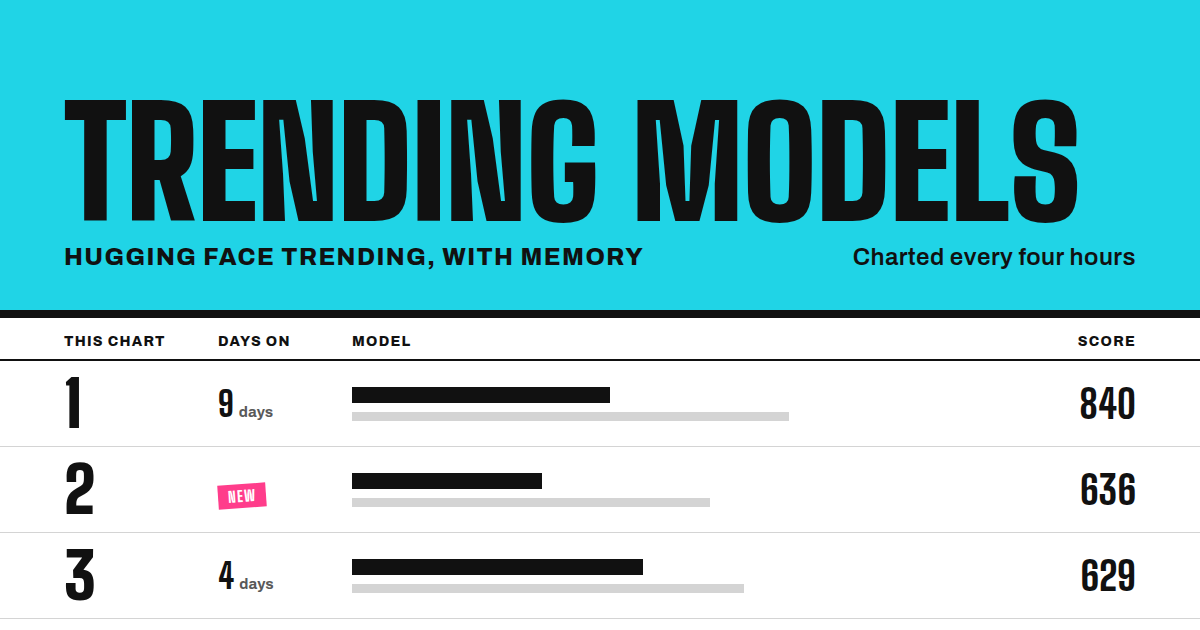
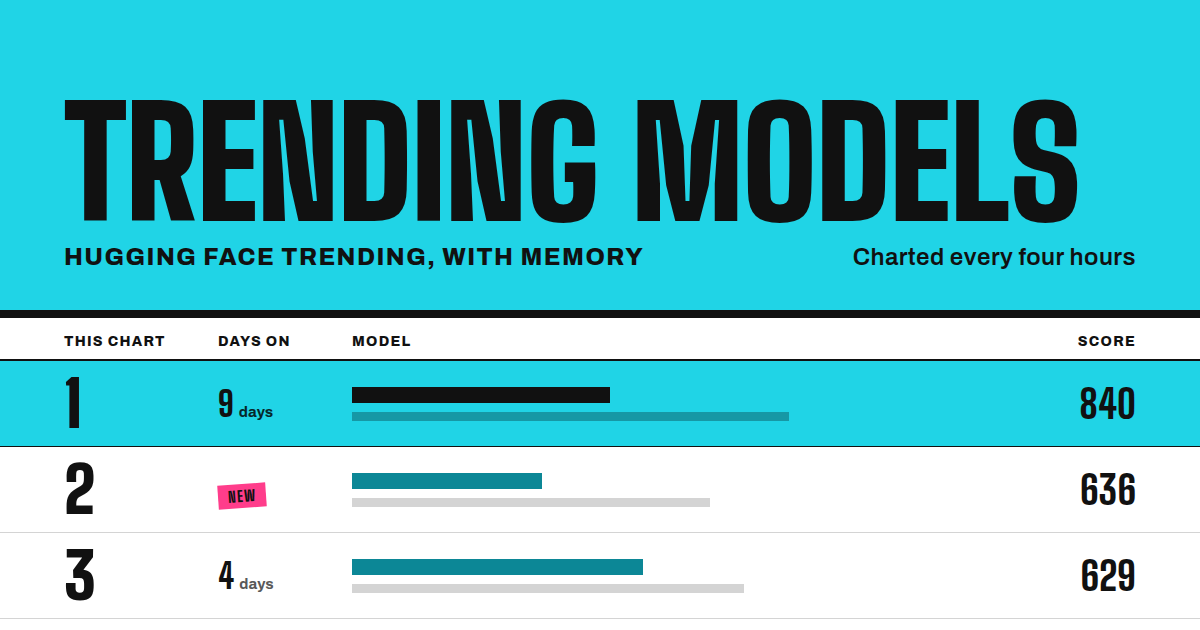
Fix review findings: bar contrast, the No. 1 band and the docs
- Score bars print a deeper cyan (#0c8796) on the light sheet, so they
  keep 3:1 on their track. Chart cyan was 1.4:1. The dark sheet keeps
  its cyan.
- Band Grey goes to #06272a, so the band holds the page's 7:1 rule.
- On the No. 1 band, the name's underline is stronger, and a NEW tag
  gets a black edge, because pink on cyan barely separates.
- The band keeps its black rule as the last row of a column, and the
  stuck heads on phones cover the band's reach into the gutter.
- Tests check the bar contrast on both sheets, the band's --sheet remap
  and black on the band at 7:1.
- The link preview image prints the new colours, and its alt text says
  cyan, pink and black.
- DESIGN.md, the surface brief and a stale comment now match the code.

Changed region(s): [[0.0, 0.573, 1.0, 0.7841], [0.2775, 0.8746, 0.555, 0.9349], [0.185, 0.754, 0.2158, 0.8143]]

diff --git a/src/render.ts b/src/render.ts
@@ -15,7 +15,7 @@ const TITLE = "Trending Models: Hugging Face trending, with memory";
 const DESCRIPTION =
 	"The models trending on Hugging Face right now, charted every four hours with how many days each has trended.";
 // public/og.png, made from scripts/og-image.html
-const OG_IMAGE_ALT = "Trending Models, printed as a cyan and black singles chart with positions, days on and trending scores.";
+const OG_IMAGE_ALT = "Trending Models, printed as a cyan, pink and black singles chart with positions, days on and trending scores.";
 
 // "Days on" grows with a run, so staying power reads at a glance: a run this long prints boxed in ink,
 // and a long run prints larger in its box
@@ -23,7 +23,7 @@ const MID_RUN = 4;
 const LONG_RUN = 7;
 
 // Hugging Face lists models by trending score, so its own order is already the score order: No. 1 has
-// the top score, and the page needs no second order or top-score mark
+// the top score, and the page needs no second order. No. 1's cyan band marks the top score
 export function renderPage(snapshot: Snapshot | null, now = new Date()): string {
 	const models = snapshot?.models ?? [];
 	const newCount = models.filter((m) => m.isNew).length;
@@ -245,6 +245,8 @@ ${fontFace("Archivo", "archivo-v25-latin.woff2", "400 800", LATIN)}
 ${fontFace("Archivo", "archivo-v25-latin-ext.woff2", "400 800", LATIN_EXT)}
 :root {
 	--cyan: #20d4e6;
+	/* Score bars: chart cyan is too pale for a thin mark on white, so the light sheet prints them a deeper cyan */
+	--bar: #0c8796;
 	/* The second spot colour, for NEW only */
 	--pink: #ff3d8b;
 	--black: #111;
@@ -265,6 +267,7 @@ ${fontFace("Archivo", "archivo-v25-latin-ext.woff2", "400 800", LATIN_EXT)}
 		--sheet: #161513;
 		/* Full-strength cyan glares as a big block on a dark sheet, so it prints a step deeper */
 		--cyan: #2cc0cf;
+		--bar: var(--cyan);
 		--pink: #f2508f;
 		--ink: #e8e4da;
 		--muted: #d2cec4;
@@ -365,7 +368,7 @@ h1 {
 .key-days .on-n { font-size: 17px; }
 .key-days .on-n.mid { font-size: 16px; }
 .key-bar { display: flex; width: 56px; height: 7px; background: color-mix(in srgb, var(--ink) 12%, transparent); }
-.key-bar span { width: 50%; background: var(--cyan); }
+.key-bar span { width: 50%; background: var(--bar); }
 
 main { padding-top: 0; }
 .chart { display: grid; grid-template-columns: repeat(2, minmax(0, 1fr)); gap: 0 48px; }
@@ -461,14 +464,14 @@ main { padding-top: 0; }
 /* A cyan bar under each score, scaled to the top score, so scores compare at a glance
    and the masthead's colour runs down the chart */
 .bar { display: flex; height: 7px; margin-top: 6px; background: color-mix(in srgb, var(--ink) 12%, transparent); }
-.bar span { background: var(--cyan); }
+.bar span { background: var(--bar); }
 
 /* No. 1 prints on a cyan band, the masthead's colour, in black type. The tokens remap inside it,
    so every element keeps its role: grey text is a deep cyan, boxed runs print cyan on black */
 .row.one, .row.one:hover {
 	--ink: var(--black);
 	--pos: var(--black);
-	--muted: #0d3b40;
+	--muted: #06272a;
 	--sheet: var(--cyan);
 	background: var(--cyan);
 	color: var(--ink);
@@ -476,6 +479,13 @@ main { padding-top: 0; }
 }
 .one .bar span { background: var(--black); }
 .row.one ::selection { background: var(--black); color: var(--cyan); }
+/* All type on the band is black, so the name's underline is stronger to still say "link" */
+.row.one .model { text-decoration-color: color-mix(in srgb, currentColor 60%, transparent); }
+.row.one:hover .model, .row.one .name:hover .model { text-decoration-color: currentColor; }
+/* Pink on cyan barely separates, so a NEW tag on the band gets a black edge */
+.row.one .stamp { box-shadow: inset 0 0 0 1.5px var(--black); }
+/* The band closes with its black rule even when it is the last row in a column */
+.col:last-child .row.one:last-child, .rows .row.one:last-child { border-bottom: 1px solid var(--black); }
 .one .pos { font-size: 44px; color: var(--ink); }
 .one .on { padding-top: 8px; }
 
@@ -625,6 +635,8 @@ footer {
 	.one .on { margin-top: 43px; padding-top: 0; }
 	/* Phone rows have no side padding, so the band reaches into the gutter to keep its type off the edge */
 	.row.one { margin: 0 -10px; padding: 14px 10px; }
+	/* The stuck heads cover that reach too, so the band never shows beside them as it scrolls under */
+	.heads::before { content: ""; position: absolute; inset: 0 -10px; z-index: -1; background: var(--sheet); }
 	/* The score sits level with the model name, not the author line above it */
 	.gain { align-self: end; }
 	/* Taps land on the name even a little off the text */

diff --git a/test/render.test.ts b/test/render.test.ts
@@ -262,8 +262,15 @@ describe("freshness and fonts", () => {
 		// The masthead prints black on cyan in both schemes
 		expect(contrast(light("cyan"), light("black"))).toBeGreaterThanOrEqual(7);
 		expect(contrast(dark("cyan"), light("black"))).toBeGreaterThanOrEqual(7);
-		// Score bars print cyan on the dark sheet, so they must stand out from it
-		expect(contrast(dark("cyan"), dark("sheet"))).toBeGreaterThanOrEqual(7);
+		// Score bars sit on a 12% ink track: they keep 3:1 against it on both sheets.
+		// The dark sheet prints them in its cyan; the light sheet needs a deeper one
+		const hex6 = (c: string) => (c.length === 4 ? `#${[...c.slice(1)].map((d) => d + d).join("")}` : c);
+		const mix = (a: string, b: string, p: number) =>
+			`#${[1, 3, 5].map((i) => Math.round(parseInt(hex6(a).slice(i, i + 2), 16) * p + parseInt(hex6(b).slice(i, i + 2), 16) * (1 - p)).toString(16).padStart(2, "0")).join("")}`;
+		expect(html).toContain("--bar: var(--cyan);");
+		expect(contrast(light("bar"), mix(light("ink"), light("sheet"), 0.12))).toBeGreaterThanOrEqual(3);
+		expect(contrast(dark("cyan"), mix(dark("ink"), dark("sheet"), 0.12))).toBeGreaterThanOrEqual(3);
+		expect(html).toContain(".bar span { background: var(--bar); }");
 		// Light --pos is var(--ink), so only it falls back to ink; any other token must be a hex colour
 		expect(html).toContain("--pos: var(--ink);");
 		for (const [t, fgs] of [[light, ["ink", "muted"]], [dark, ["ink", "muted", "pos"]]] as const) {
@@ -279,10 +286,15 @@ describe("freshness and fonts", () => {
 		// The No. 1 band is cyan, with black type and a deep cyan for its grey text
 		const band = html.match(/\.row\.one, \.row\.one:hover \{([^}]+)\}/)?.[1] ?? "";
 		expect(band).toContain("--ink: var(--black);");
+		// A boxed run prints --sheet on --ink, so inside the band it must be cyan on black
+		expect(band).toContain("--sheet: var(--cyan);");
 		expect(band).toContain("background: var(--cyan);");
 		const bandMuted = band.match(/--muted: (#[0-9a-f]{6});/)?.[1] ?? "";
 		expect(bandMuted).toMatch(/^#/);
-		for (const cyan of [light("cyan"), dark("cyan")]) expect(contrast(cyan, bandMuted)).toBeGreaterThanOrEqual(4.5);
+		for (const cyan of [light("cyan"), dark("cyan")]) {
+			expect(contrast(cyan, bandMuted)).toBeGreaterThanOrEqual(7);
+			expect(contrast(cyan, light("black"))).toBeGreaterThanOrEqual(7);
+		}
 		// A boxed run prints sheet-coloured text on ink, so its count and unit must not keep the ink colour
 		expect(html).toContain(".run { display: inline-block; padding: 3px 6px 2px; background: var(--ink); color: var(--sheet);");
 		expect(html).toContain(".run .on-n, .run .on-l { color: inherit; }");
@@ -293,7 +305,7 @@ describe("freshness and fonts", () => {
 		const cyan = html.match(/--cyan: (#[0-9a-f]{6});/)?.[1] ?? "";
 		expect(html).toContain(encodeURIComponent(`fill="${cyan}"`));
 		// Pink is the second spot colour: the NEW tag is the only rule that uses it
-		expect(html.match(/var\(--pink\)/g)).toHaveLength(1);
+		expect(html.match(/var\(--pink\)/g) ?? []).toHaveLength(1);
 	});
 });
 

diff --git a/scripts/og-image.html b/scripts/og-image.html
@@ -24,9 +24,13 @@ h1 { white-space: nowrap; font: 900 150px/.78 "Big Shoulders Display", sans-seri
 .pos { font: 900 64px/.84 "Big Shoulders Display", sans-serif; }
 .on { font: 800 34px/1 "Big Shoulders Display", sans-serif; }
 .on small { font: 700 15px Archivo, sans-serif; margin-left: 5px; color: #595959; }
-.stamp { display: inline-block; background: #ff3d8b; color: #fff; font-weight: 800; font-size: 15px; letter-spacing: .09em; text-transform: uppercase; padding: 5px 10px 4px; transform: rotate(-4deg); }
+.stamp { display: inline-block; background: #ff3d8b; color: #111; font-weight: 800; font-size: 15px; letter-spacing: .09em; text-transform: uppercase; padding: 5px 10px 4px; transform: rotate(-4deg); }
 .bars { display: grid; gap: 9px; }
-.bar { height: 16px; background: #111; }
+.bar { height: 16px; background: #0c8796; }
+.row.one { background: #20d4e6; border-bottom-color: #111; }
+.row.one .bar { background: #111; }
+.row.one .bar.sub { background: #06272a; opacity: .35; }
+.row.one .on small { color: #06272a; }
 .bar.sub { height: 9px; background: #d4d4d4; }
 .gain { text-align: right; font: 800 40px/.9 "Big Shoulders Display", sans-serif; }
 </style>

diff --git a/DESIGN.md b/DESIGN.md
@@ -3,8 +3,9 @@ name: Trending Models
 description: Hugging Face trending printed as a three-ink trade-paper singles chart (cyan, pink and black), with memory.
 colors:
   chart-cyan: "#20d4e6"
+  bar-cyan: "#0c8796"
   stamp-pink: "#ff3d8b"
-  band-muted: "#0d3b40"
+  band-muted: "#06272a"
   ink: "#111"
   sheet: "#fff"
   muted: "#444"
@@ -121,7 +122,9 @@ components:
     backgroundColor: "{colors.chart-cyan}"
     textColor: "{colors.ink}"
   score-bar:
-    backgroundColor: "{colors.chart-cyan}"
+    backgroundColor: "{colors.bar-cyan}"
+  score-bar-dark:
+    backgroundColor: "{colors.chart-cyan-dark}"
   days-run:
     backgroundColor: "{colors.ink}"
     textColor: "{colors.sheet}"
@@ -170,34 +173,36 @@ There is no client script. Motion is one gesture: the NEW tag presses onto the s
 
 ## Colors
 
-A three-ink trade-paper palette (cyan, pink and ink) on a white or near-black sheet. Greys are steps of the ink, not new colours.
+A three-ink trade-paper palette (cyan, pink and ink) on a white or near-black sheet. Greys are steps of the ink, not new colours, except Band Grey, a shade of cyan for grey text inside the No. 1 band.
 
 ### Primary
-- **Chart Cyan** (`chart-cyan`): the masthead band, the No. 1 band, the score bars (and the key's bar sample), the text-selection highlight, the light `theme-color` and the favicon.
-- **Night Chart Cyan** (`chart-cyan-dark`): Chart Cyan under `prefers-color-scheme: dark`, for the masthead, the No. 1 band, the score bars, the selection highlight and the dark `theme-color`. The favicon keeps Chart Cyan.
+- **Chart Cyan** (`chart-cyan`): the masthead band, the No. 1 band, the text-selection highlight, the light `theme-color` and the favicon.
+- **Bar Cyan** (`bar-cyan`, `--bar`): the score bars and the key's bar sample on the light sheet. Chart Cyan is too pale for a 7px mark on white (1.4:1 on the track), so the bars print a deeper cyan that keeps 3:1 on the track.
+- **Night Chart Cyan** (`chart-cyan-dark`): Chart Cyan under `prefers-color-scheme: dark`, for the masthead, the No. 1 band, the score bars (`--bar` is Night Chart Cyan on the dark sheet), the selection highlight and the dark `theme-color`. The favicon keeps Chart Cyan.
 
 ### Secondary
 - **Stamp Pink** (`stamp-pink`): the NEW tag's ground, with black type (5.7:1). It prints on nothing else.
-- **Night Stamp Pink** (`stamp-pink-dark`): Stamp Pink a step deeper on the dark sheet, still with black type.
+- **Night Stamp Pink** (`stamp-pink-dark`): Stamp Pink a little softer on the dark sheet, at the same lightness, still with black type.
 
 ### Neutral
-- **Ink** (`ink`, also `--black` for type on cyan): all primary text, rank and days numerals, scores, the task, the masthead type and rule, the column-head and footer rules, the column divider, score bar tracks (at 12%), the No. 1 score bar, focus outlines, and the ground of every reversed box (days runs, the stale strip).
+- **Ink** (`ink`): all primary text, rank and days numerals, scores, the task, the masthead rule, the column-head and footer rules, the column divider, score bar tracks (at 12%), focus outlines, and the ground of every reversed box (days runs, the stale strip).
+- **Black** (`--black`, #111 in both schemes): type on cyan and pink (the masthead, the No. 1 band, the NEW tag). Inside the No. 1 band, `--ink` is Black, so the band's score bar, focus outline and boxed-run ground print Black.
 - **Sheet** (`sheet`): the page background, and the text in every reversed ink box.
 - **Press Grey** (`muted`): secondary text: the author, the meta line (parameters, likes, downloads), the facts line, the chart key's prose, footer prose and the "–" no-history mark.
 - **Hairline** (`rule`): 1px row rules and the key strip's bottom rule.
 - **Cyan Wash** (`hover-wash`): row hover.
-- **Band Grey** (`band-muted`): a deep cyan for Press Grey's role inside the No. 1 band (6.5:1 on Chart Cyan, 5.5:1 on Night Chart Cyan).
+- **Band Grey** (`band-muted`): a deep cyan for Press Grey's role inside the No. 1 band (8.7:1 on Chart Cyan, 7.2:1 on Night Chart Cyan).
 - **Dark sheet set** (`sheet-dark`, `ink-dark`, `muted-dark`, `rule-dark`, `hover-wash-dark`): the same roles under `prefers-color-scheme: dark`.
-- **Night Position Grey** (`position-dark`): rank numerals on the dark sheet, except No. 1, which prints in full ink. In light mode ranks print in Ink.
+- **Night Position Grey** (`position-dark`): rank numerals on the dark sheet, except No. 1, which prints in Black on its cyan band. In light mode ranks print in Ink.
 
 ### Dark Sheet Legibility
 The dark sheet is newsprint at night, not white on black. Pure white on near-black glares, and thin light strokes blur, so:
 - Ink is a warm off-white (`#e8e4da`, 14:1 on the sheet) on a lifted warm sheet (`#161513`). Do not push ink back to white or the sheet to black.
-- Text set in Archivo on the dark sheet prints at weight 450 instead of 400, and uses the platform's default font smoothing. Display numerals (title, age, ranks, days, scores, empty title) keep `antialiased`, so the heavy figures stay crisp. Dark type on light grounds (the masthead, the stale strip) keeps the light-mode weight and smoothing.
-- Cyan steps down to `chart-cyan-dark` (`#2cc0cf`). Full-strength cyan on the near-black sheet is the brightest thing on the page by far, and it glares. Ink #111 on it stays above 8:1. Do not push the dark cyan back to `#20d4e6`.
+- Text set in Archivo on the dark sheet prints at weight 450 instead of 400, and uses the platform's default font smoothing. Display numerals (title, age, ranks, days, scores, empty title) keep `antialiased`, so the heavy figures stay crisp. Dark type on light grounds (the masthead, the No. 1 band, the NEW tag) keeps the light-mode weight and smoothing; the stale strip keeps the smoothing.
+- Cyan steps down to `chart-cyan-dark` (`#2cc0cf`). Full-strength cyan on the near-black sheet is the brightest thing on the page by far, and it glares. Ink #111 on it stays above 8:1. Do not push the dark cyan back to `#20d4e6`. The No. 1 band is the one large cyan block inside the dark chart. It is deliberate: the chart's top score earns the masthead's colour.
 - The NEW tag fills on both sheets, in Night Stamp Pink on the dark one. It is a small tag, so it does not glare as a cyan block would.
-- Rank numerals step down to `position-dark`: a column of large, full-white 900-weight figures pulls the eye off the model names. Scores stay full Ink, because they lead the row with the name.
-- The tests hold ink, Press Grey and the rank colour at 7:1 or more on both sheets, ink on both cyans at 7:1 or more, Night Chart Cyan at 7:1 or more on the dark sheet, black on both pinks at 4.5:1 or more, and Band Grey on both cyans at 4.5:1 or more.
+- Rank numerals step down to `position-dark`: a column of large, full-white 900-weight figures pulls the eye off the model names. Scores outside the No. 1 band stay full Ink, because they lead the row with the name.
+- The tests hold ink, Press Grey and the rank colour at 7:1 or more on both sheets, ink on both cyans at 7:1 or more, Night Chart Cyan at 7:1 or more on the dark sheet, black on both pinks at 4.5:1 or more, Band Grey and black on both cyans at 7:1 or more, and the score bars at 3:1 or more on their track on both sheets.
 
 ### Named Rules
 **The Pink Means New Rule.** Pink means "first day on Hugging Face trending" and nothing else. Long runs print in ink, never pink.
@@ -257,11 +262,11 @@ The page is a centred sheet, max 1440px, with 40px side gutters (16px at 640px a
 
 **Tablet (641 to 1100px).** One chart column; the second list's column heads are hidden so the chart reads as one continuous sheet. "author / name" sits on one line. The meta line wraps, and downloads show.
 
-**Phone (640px and below).** Three columns: 52px left, flexible body, auto score, with 12px gaps; rows pad 14px top and bottom with no side padding. Days on sits right under the rank in the left column, and its head ("Days") sits under "Rank". Boxed runs stack number over unit so a two-digit run fits. The author prints on its own line; the score aligns with the model name, not the author line. Downloads and score bars are hidden. Each fact keeps its words together with no-break spaces, so a date never splits across lines. The name link extends its tap area 10px by 6px. The footer stacks, and its links pad 10px top and bottom.
+**Phone (640px and below).** Three columns: 52px left, flexible body, auto score, with 12px gaps; rows pad 14px top and bottom with no side padding. The No. 1 band pads 10px at the sides and reaches 10px into the gutter, and the stuck column heads cover that reach so the band never shows beside them. Days on sits right under the rank in the left column, and its head ("Days") sits under "Rank". Boxed runs stack number over unit so a two-digit run fits. The author prints on its own line; the score aligns with the model name, not the author line. Downloads and score bars are hidden. Each fact keeps its words together with no-break spaces, so a date never splits across lines. The name link extends its tap area 10px by 6px. The footer stacks, and its links pad 10px top and bottom.
 
 ## Elevation & Depth
 
-The system is flat. There are no shadows. Depth comes from print devices: rule weight (1px hairline, 2px column divider, 3px head and footer rules, 6px masthead rule), solid bands of colour, and small reversed ink boxes. The build has no `box-shadow`.
+The system is flat. There are no shadows. Depth comes from print devices: rule weight (1px hairline, 2px column divider, 3px head and footer rules, 6px masthead rule), solid bands of colour, and small reversed ink boxes. The one `box-shadow` in the build is a 1.5px inset black edge on a NEW tag inside the No. 1 band, where pink on cyan barely separates. It is a stroke with no offset or blur.
 
 ### Named Rules
 **The Rules, Not Boxes Rule.** Separate content with rules of graded weight. Do not use cards, borders on four sides, or shadows.
@@ -288,9 +293,9 @@ When the snapshot is more than 12 hours old (three missed runs), a full-width st
 - **Model link:** one link, "author / name". The author is weight 500 in Press Grey; only the name is underlined (1px, 3px offset, 45% of the text colour), and the underline goes solid on row hover. A long pair breaks before the name, never inside it. A bare id (no author) prints the name only. The link's `title` repeats "author / name".
 - **Meta line:** task (ink, 700), parameter count ("1.73B params"), compact likes, compact downloads (last 30 days). Compact figures carry the full figure in `title` and in screen-reader text.
 - **Facts line:** library, license, "gated" when access needs approval, and the creation date, joined by middle dots.
-- **Score:** "822" over a 7px bar. The bar's width is the model's share of the top score, at least 8% (an empty track for a score of 0), in Chart Cyan on a 12% ink track. Screen readers hear "trending score".
-- **No. 1:** prints on a Chart Cyan band, the masthead's colour, never reversed in ink. Its rank numeral is larger (44px). The band remaps the tokens: type is black, grey text is Band Grey, a boxed run prints cyan on black, and the score bar prints in black. The band keeps its colour on hover, closes with a 1px black rule, and on phones reaches 10px into the gutter so its type does not touch the edge. Text selection inside it is black with cyan text.
-- **Hover:** cyan wash background and a solid underline on the name.
+- **Score:** "822" over a 7px bar. The bar's width is the model's share of the top score, at least 8% (an empty track for a score of 0), in Bar Cyan (Night Chart Cyan on the dark sheet) on a 12% ink track. Screen readers hear "trending score".
+- **No. 1:** prints on a Chart Cyan band, the masthead's colour, never reversed in ink. Its rank numeral is larger (44px). The band remaps the tokens: type is black, grey text is Band Grey, a boxed run prints cyan on black, and the score bar prints in black. The name's underline is 60% of the text colour, not 45%, because all type on the band is black. A NEW tag on the band gets a 1.5px black edge. The band keeps its colour on hover, closes with a 1px black rule (also as the last row of a column), and on phones reaches 10px into the gutter so its type does not touch the edge. Text selection inside it is black with cyan text.
+- **Hover:** cyan wash background (No. 1 keeps its band) and a solid underline on the name.
 - **Focus:** the row draws a 2px ink outline inset 2px when its name link has focus. Other links use a 2px currentColor outline, offset 2px.
 - **Degrades quietly:** a missing task, parameter count or fact removes its element.
 
@@ -312,12 +317,12 @@ A 3px ink rule over Press Grey 14px text: the data credit to huggingface.co/mode
 
 ## Differences from Trending Repos
 
-The two pages share tokens, type, rules, the days-on boxes, the NEW tag, the dateline and the layout. These parts differ because the data differs:
+The two pages share tokens, type, rules, the days-on boxes, the NEW tag's shape and motion, the dateline and the layout. These parts differ because the data differs:
 
 - **One order, no switch.** GitHub's trending order is not its stars-today order, so trending-repos ranks by stars today and keeps GitHub's order behind a "Rank by" switch. Hugging Face's order is the trending-score order, so this page has one order, and no top-gain chip.
 - **No descriptions, homepages or topics.** The Hugging Face list has none of them. The facts line (library, license, gated, created) takes the description's place under the row.
 - **The author stacks at every desktop width**, and the name ends in an ellipsis, because model names run much longer than repository names.
-- **Cyan, not yellow**, for the band, the score bars and No. 1. NEW is pink on both pages.
+- **Cyan, not yellow**, for the masthead. Inside the chart this page prints cyan score bars, a cyan No. 1 band and a pink NEW tag (since 2026-11-06); see trending-repos' DESIGN.md for its chart colours.
 
 ## Do's and Don'ts
 

diff --git a/.impeccable/surfaces/src-render-ts.md b/.impeccable/surfaces/src-render-ts.md
@@ -1,5 +1,5 @@
 ---
-version: 2
+version: 3
 slug: "src-render-ts"
 primary_target: "src/render.ts"
 related_targets: ["src/index.ts"]
@@ -16,10 +16,10 @@ Constraints: no client JS (CSP has no script-src), no remote images (CSP img-src
 
 ## Direction contract
 
-Revised 2026-11-04 to match the trending-repos redesign (forjd/trending-repos#10). The build wins; DESIGN.md records it in full, with the differences from trending-repos.
+Revised 2026-11-04 to match the trending-repos redesign (forjd/trending-repos#10), and on 2026-11-06 to bring colour back into the chart. The build wins; DESIGN.md records it in full, with the differences from trending-repos.
 
-THESIS: Hugging Face trending is a singles chart; this page is the chart with memory. It refuses the card-list-of-models and prints a dense numbered chart sheet: rank, days on chart, title, trending score. The design is shared with trending-repos.
-OWN-WORLD: three-ink trade-paper chart sheet. Chart cyan #20d4e6 masthead band over a 6px ink rule, white sheet, ink #111. Inside the chart, cyan prints the score bars and a band on the No. 1 row; pink #ff3d8b prints the NEW tag and nothing else (revised 2026-11-06 to bring colour back). Big Shoulders Display condensed numerals for ranks, scores, days on and the update age; Archivo for text. Hairline row rules, a heavy rule under column heads, a 2px ink divider between desktop columns, reversed ink boxes for runs of 4+ days, cyan score bars.
+THESIS: Hugging Face trending is a singles chart; this page is the chart with memory. It refuses the card-list-of-models and prints a dense numbered chart sheet: rank, days on chart, title, trending score. The system is shared with trending-repos; the inks inside the chart may differ (see DESIGN.md).
+OWN-WORLD: three-ink trade-paper chart sheet. Chart cyan #20d4e6 masthead band over a 6px ink rule, white sheet, ink #111. Inside the chart, cyan prints the score bars (a deeper #0c8796 on the light sheet) and a band on the No. 1 row; pink #ff3d8b (#f2508f on the dark sheet) prints the NEW tag and nothing else. Big Shoulders Display condensed numerals for ranks, scores, days on and the update age; Archivo for text. Hairline row rules, a heavy rule under column heads, a 2px ink divider between desktop columns, reversed ink boxes for runs of 4+ days.
 STORY: the visitor sees how long ago the chart was updated, reads No. 1 (the top score), scans scores and their bars, spots NEW tags and boxed runs in "Days on", opens a model.
 FIRST VIEWPORT: full-width cyan masthead: "TRENDING MODELS" huge condensed, left; strapline and one-line description centre; "Updated" over "2 HOURS AGO" in display caps over "Chart of <day>, <hh:mm> UTC", right. Below, the key strip: totals and the order, then the legend. Then a two-column chart (positions 1 to n/2 left, rest right, rows paired by subgrid, sticky heads with ranges) on desktop. One column on phones, with "UPDATED 2 HOURS AGO" on one line.
 FORM: The Singles Chart, position 1 on my ordered list (IMPECCABLE'S PICK). seed:14250a7849ea27dc
